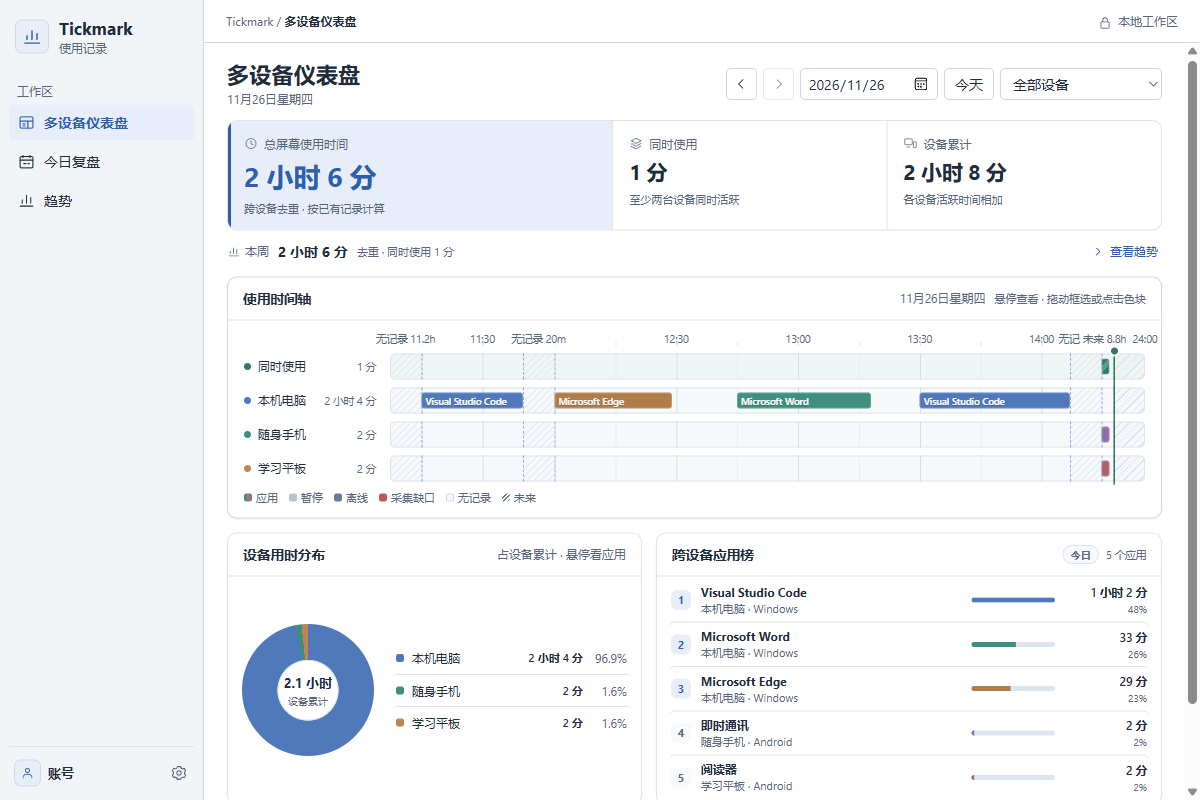
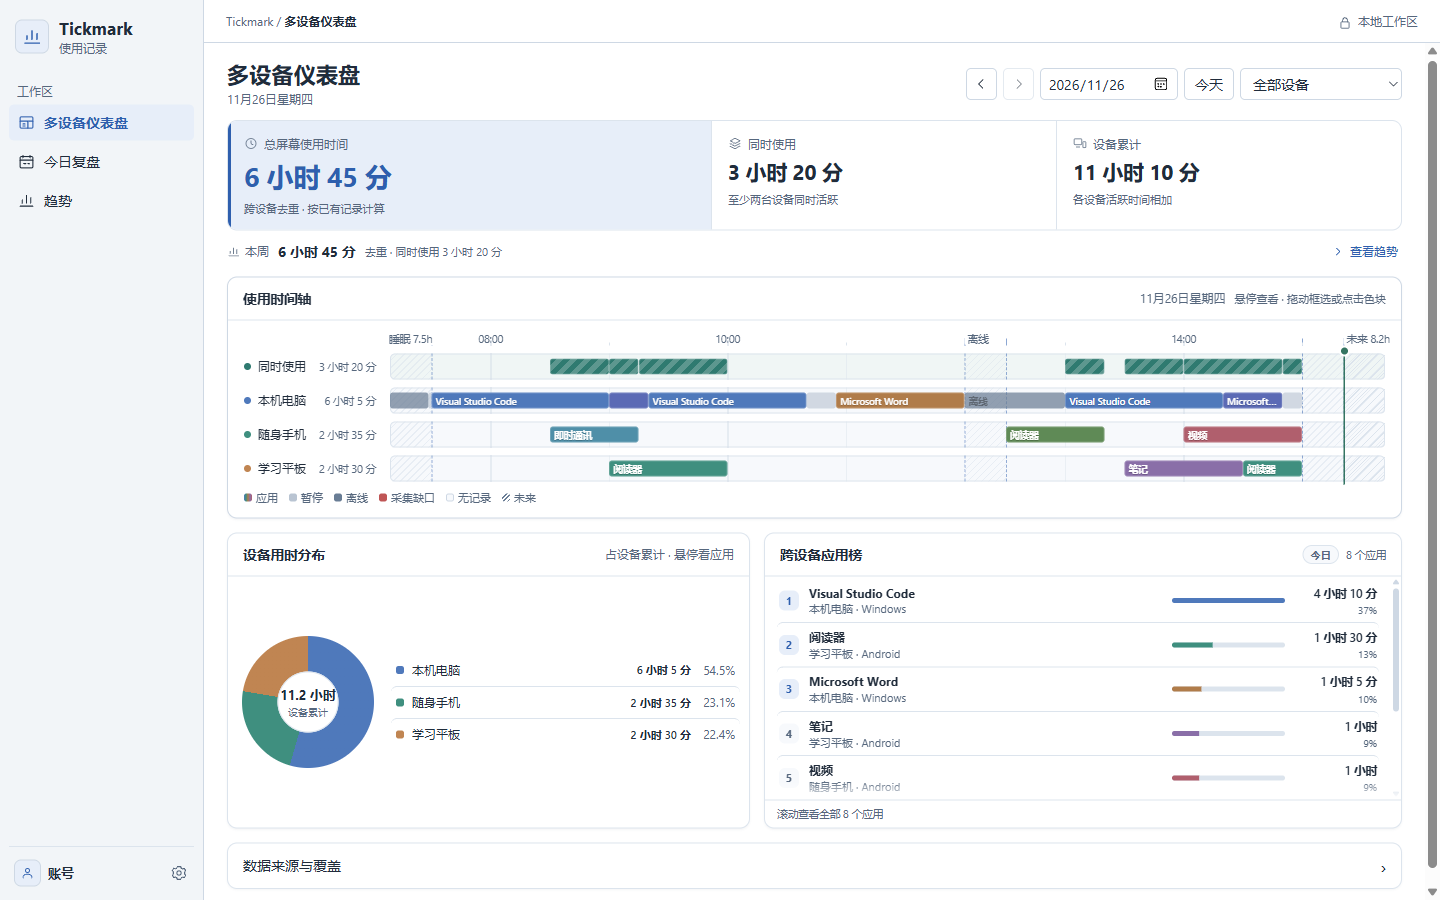
Refresh README screenshot and clarify device report rows

diff --git a/docs/reports.md b/docs/reports.md
@@ -20,6 +20,13 @@
     {
       "startMs": 1795521000000,
       "endMs": 1795521600000,
+      "state": 0
+    }
+  ],
+  "appRows": [
+    {
+      "startMs": 1795521000000,
+      "endMs": 1795521600000,
       "state": 0,
       "appId": "example.reader",
       "appName": "阅读器",
@@ -29,6 +36,8 @@
   ]
 }
 ```
+
+`rows` 是设备状态区间，`appRows` 是应用会话；两者都使用 UTC 毫秒和左闭右开区间。文件名必须与设备 `id` 一致，例如 `study-tablet.json`。`appRows` 可省略；省略时界面回退到 `rows` 读取应用字段，但带设备状态的多设备报告建议分开提供。
 
 ## AN 统计口径
 
